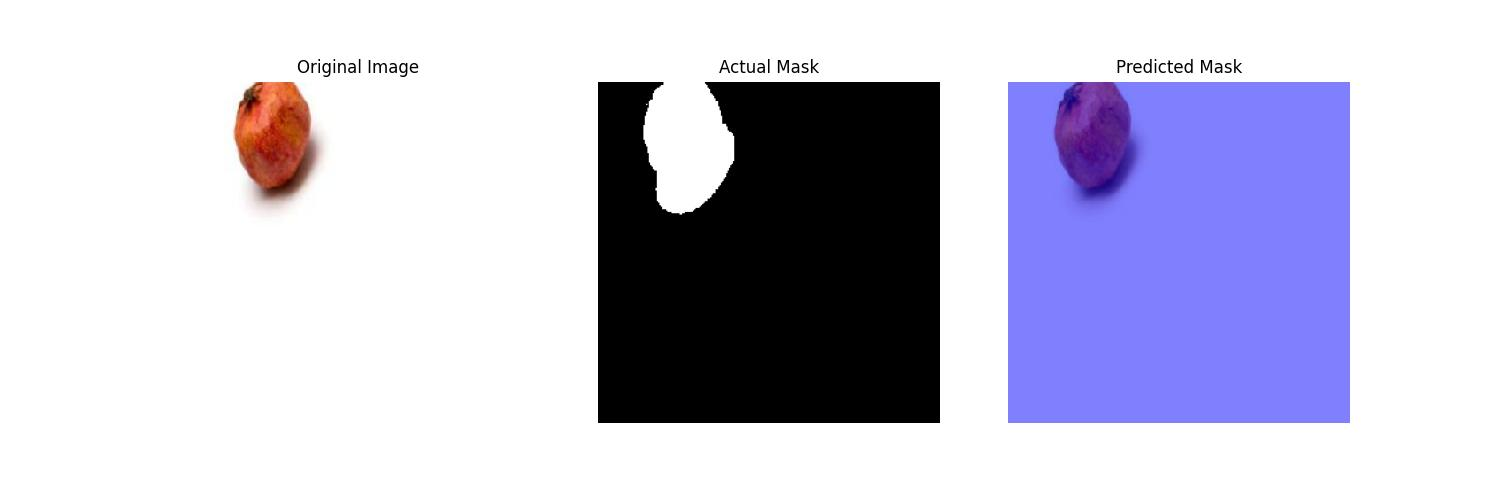
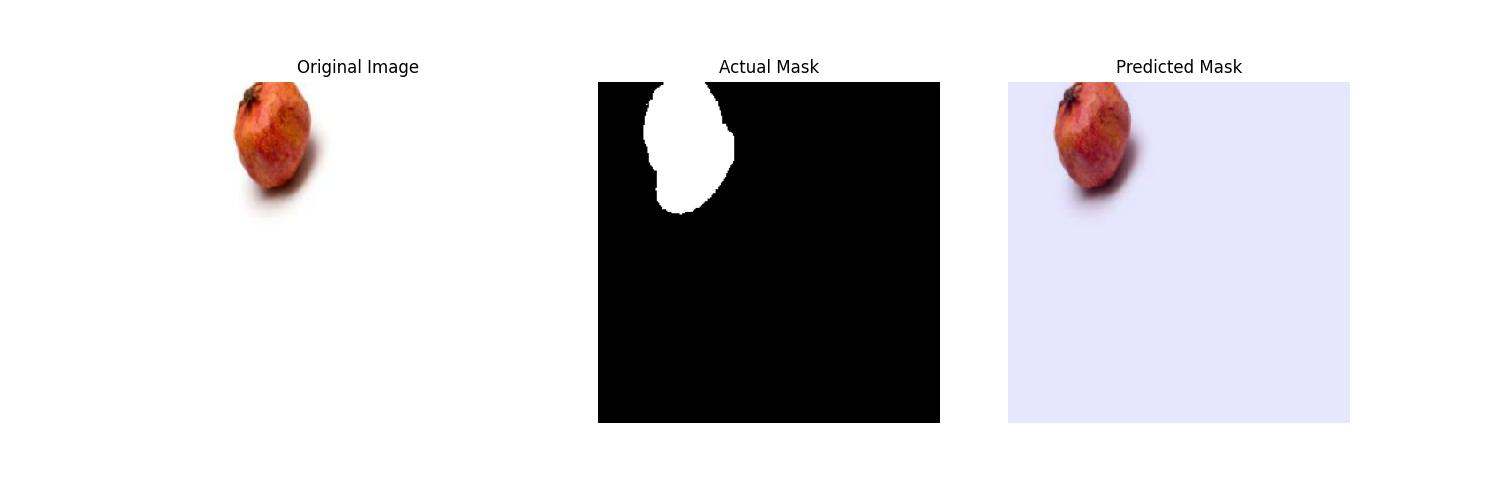
UGH

Changed region(s): [[0.6747, 0.15, 0.92, 0.87]]

diff --git a/Assignment2/run_me/utilities.py b/Assignment2/run_me/utilities.py
@@ -10,18 +10,18 @@ from matplotlib.colors import ListedColormap
 warnings.filterwarnings('ignore')
 
 def calculate_iou(y_true, y_pred, smooth=1e-6):
-    print("y_true shape:", y_true.shape)
-    print("y_pred shape:", y_pred.shape)
+    #print("y_true shape:", y_true.shape)
+    #print("y_pred shape:", y_pred.shape)
     y_true = tf.cast(y_true, 'float32')
     y_pred = tf.cast(y_pred, 'float32')
     
     # Expand the dimensions of y_pred to match y_true
     y_pred = tf.expand_dims(y_pred, -1)
     intersection = tf.reduce_sum(tf.abs(y_true * y_pred), axis=[1, 2])
-    print("Intersection shape:", intersection.shape)
+    #print("Intersection shape:", intersection.shape)
 
     union = tf.reduce_sum(y_true, axis=[1, 2]) + tf.reduce_sum(y_pred, axis=[1, 2]) - intersection
-    print("Union calculation passed")    
+    #print("Union calculation passed")    
     iou = (intersection + smooth) / (union + smooth)
     
     return tf.reduce_mean(iou)
@@ -38,7 +38,7 @@ def dice_coefficient(y_true, y_pred, smooth=1e-6):
 
 
 def overlay_segmentation(image_path, true_mask_path, model, save_dir):
-    custom_cmap = ListedColormap(['blue', 'green'])
+    custom_cmap = ListedColormap(['black', 'white'])
 
     original_image = load_img(image_path, target_size=(256, 256))
     numpy_image = img_to_array(original_image)
@@ -66,7 +66,7 @@ def overlay_segmentation(image_path, true_mask_path, model, save_dir):
     plt.subplot(1, 3, 3)
     plt.title("Predicted Mask")
     plt.imshow(original_image)
-    plt.imshow(predicted_mask, alpha=0.1, cmap=custom_cmap)  # Overlay predicted mask
+    plt.imshow(predicted_mask, alpha=1, cmap=custom_cmap)  # Overlay predicted mask
     plt.axis('off')
     
     # Save the figure to the specified directory
@@ -113,7 +113,6 @@ def model_eval(history, model):
 
     image_paths = [os.path.join(test_images_dir, img) for img in os.listdir(test_images_dir)]
     
-    # Assume test_images_dir contains pairs of image and mask files, or adjust accordingly
     ious = []
     dices = []
     

diff --git a/Assignment2/run_me/tuners.py b/Assignment2/run_me/tuners.py
@@ -18,9 +18,7 @@ start_time = 0
 def build_model(hp):
     input_size=(256,256,3)
     # save_dir = os.path.join(os.path.dirname(__file__), 'outputs')
-     # Tracking training time for LOLs
-    start_time = time.time()
-    print("Starting time at: ", start_time)
+
     # Utilizing a pre-trained VGG16 model as the encoder part of U-NET++
     vgg16 = VGG16(include_top = False, weights = 'imagenet', 
             input_shape = input_size)
@@ -89,8 +87,8 @@ def unet(train_gen, val_gen, test_gen):
     best_model = tuner.get_best_models(num_models = 1)[0]  # Select the first model from the list of best models
 
     # Tracking training time for LOLs
-    # start_time = time.time()
-    # print("Starting time at: ", start_time)
+    start_time = time.time()
+    print("Starting time at: ", start_time)
 
     # Utilizing checkpoint for saving model and early stopping to minmize loss 
     checkpoint = ModelCheckpoint(filepath = model_checkpoint_path, 
